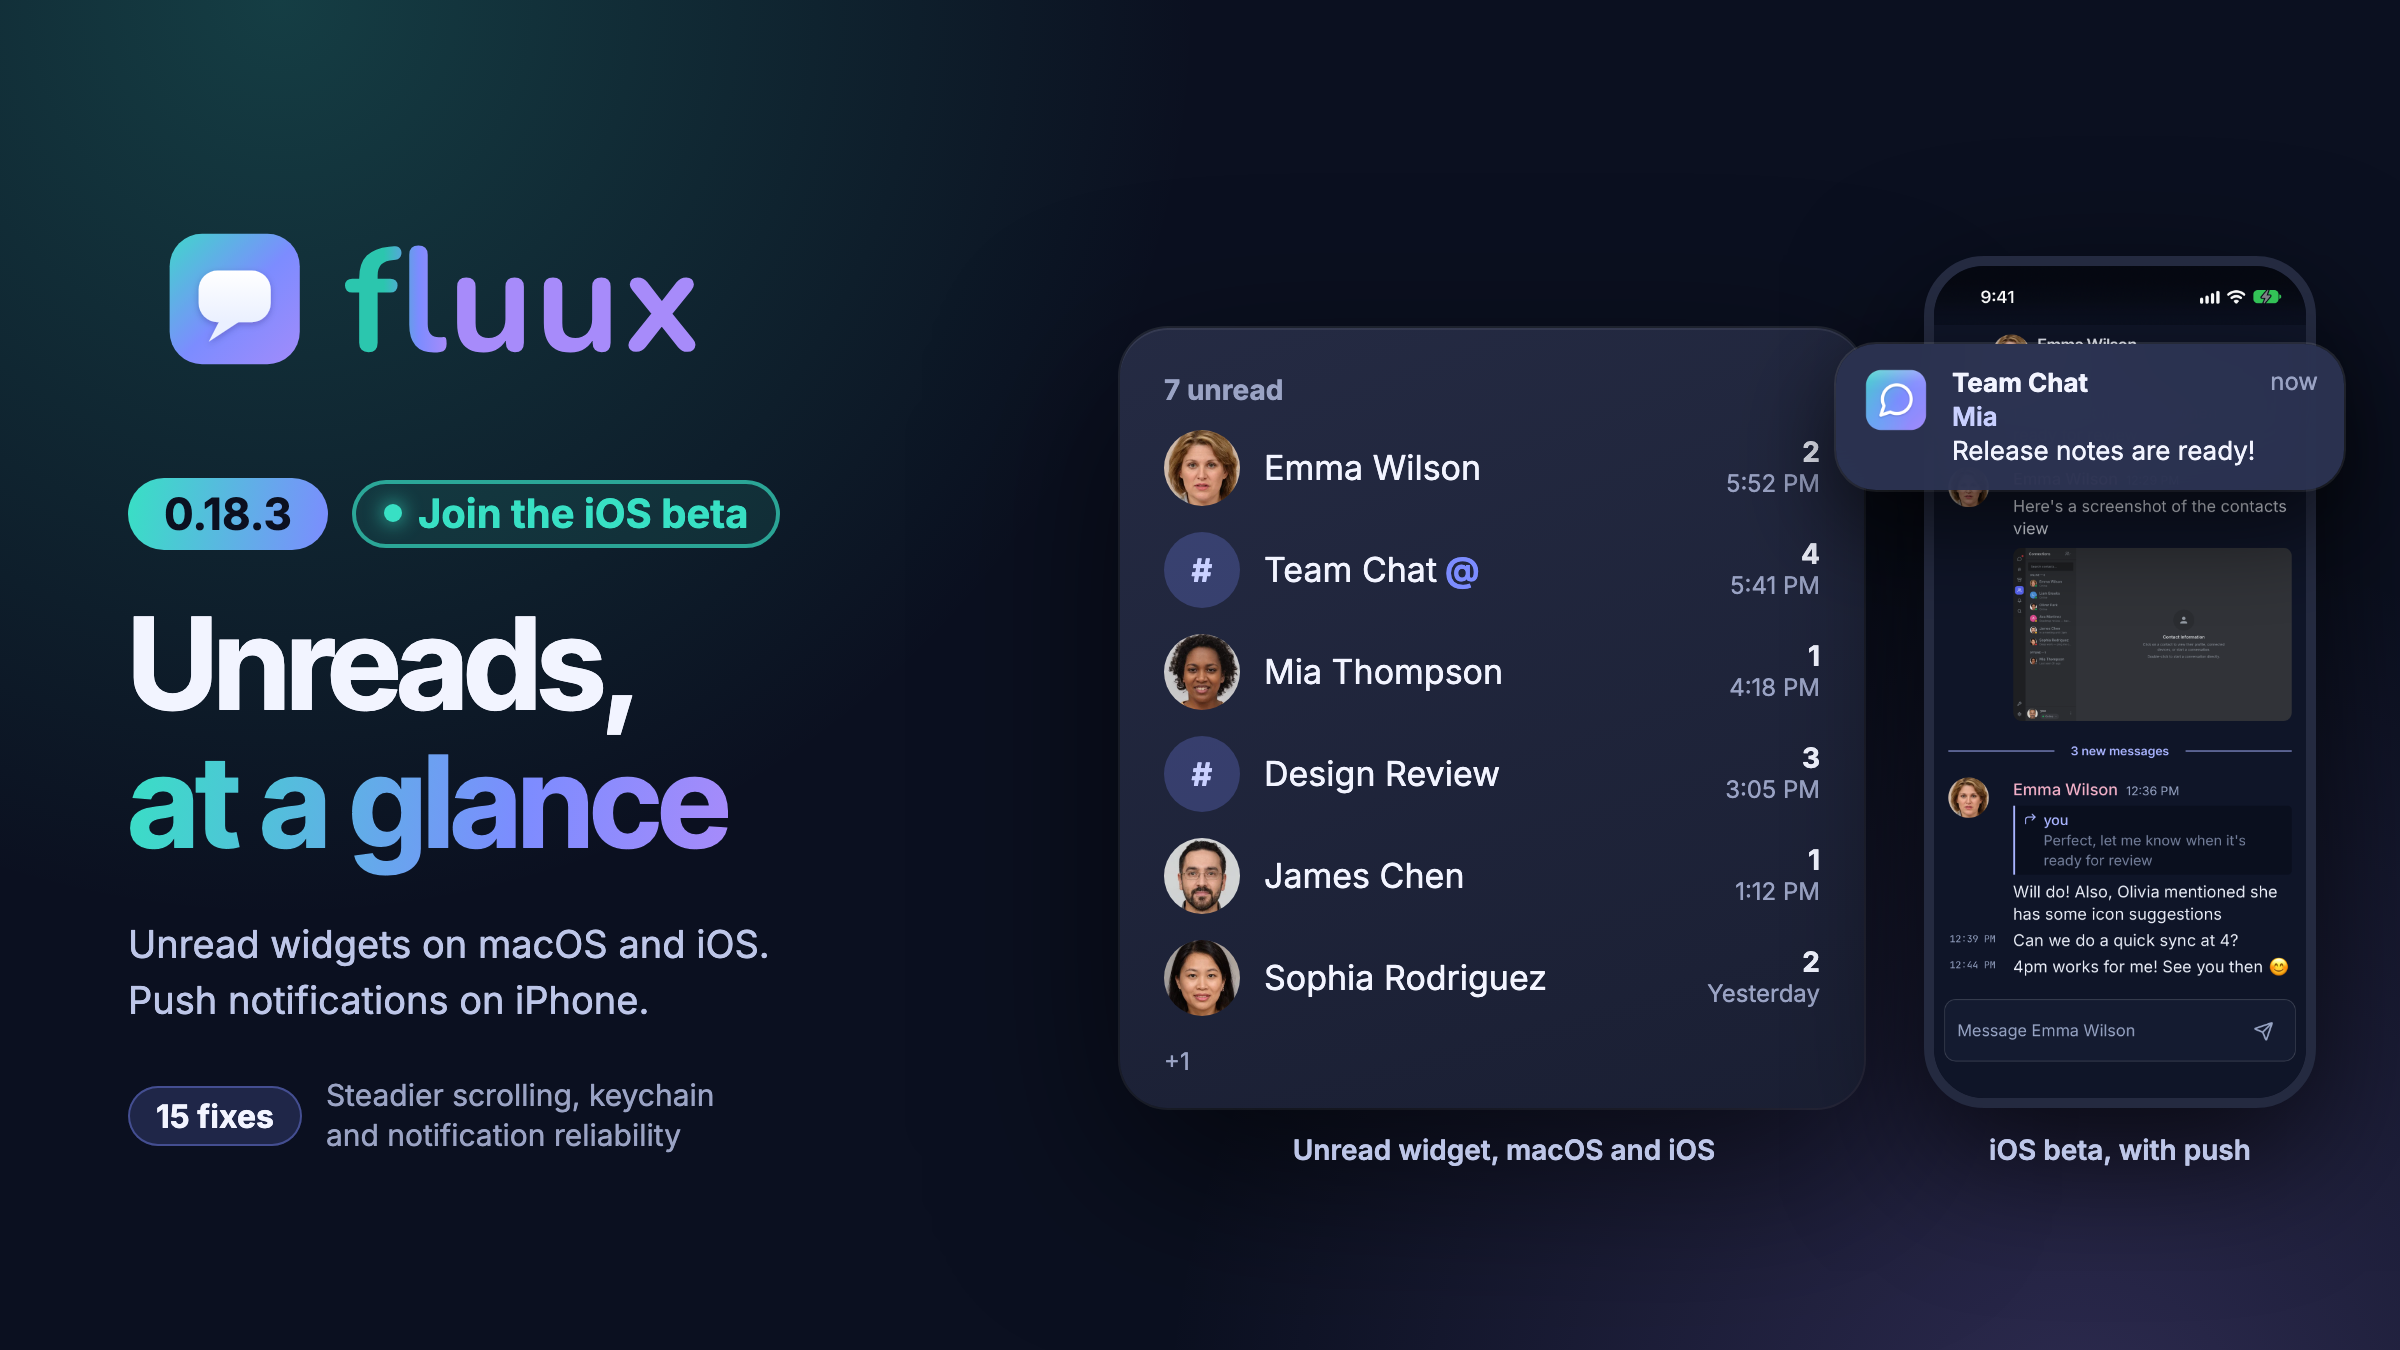
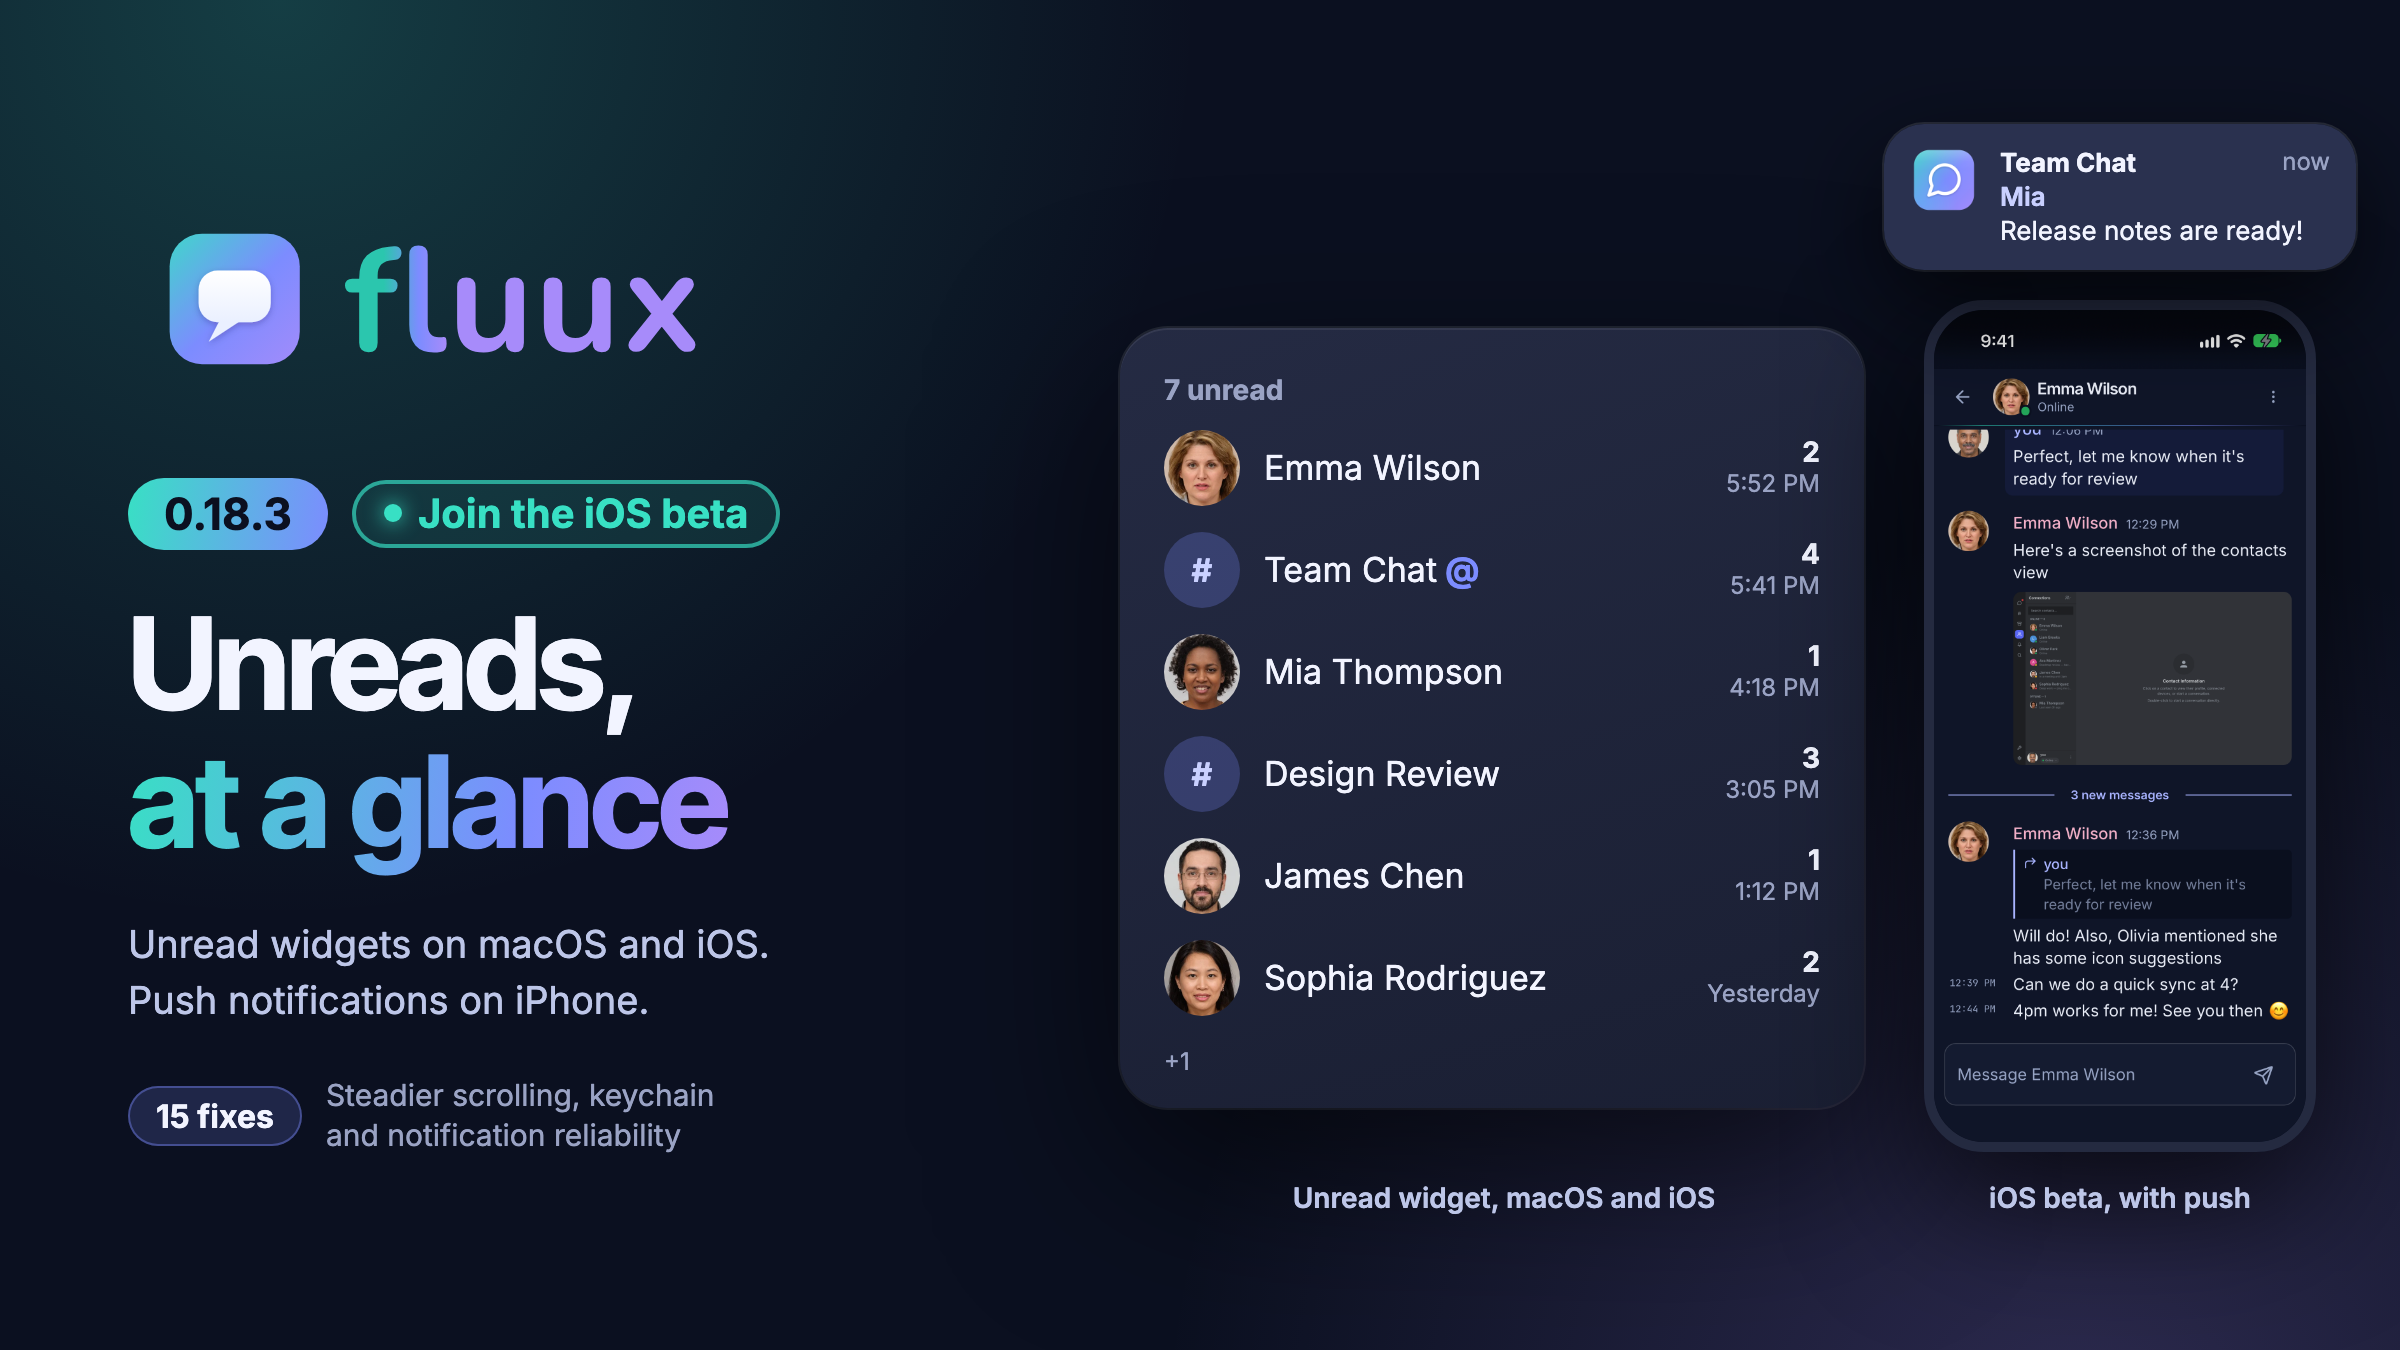
chore(media): keep the 0.18.3 hero notification off the iOS screenshot

Changed region(s): [[0.75, 0.0933, 1.0, 0.8089], [0.5312, 0.84, 0.7188, 0.9022], [0.8125, 0.84, 0.9375, 0.9022]]

diff --git a/scripts/blog-hero/blog-hero-0.18.3.html b/scripts/blog-hero/blog-hero-0.18.3.html
@@ -49,12 +49,12 @@
   .time { font-size: 12px; color: #9aa3c4; }
   .more { position: absolute; left: 22px; bottom: 16px; font-size: 12px; color: #9aa3c4; }
 
-  .phone { position: absolute; left: 962px; top: 128px; width: 196px; height: 426px;
+  .phone { position: absolute; left: 962px; top: 150px; width: 196px; height: 426px;
     border-radius: 30px; overflow: hidden; border: 5px solid #242a40;
     box-shadow: 0 24px 70px #000b; background: #0b1020; }
   .phone img { display: block; width: 100%; height: 100%; object-fit: cover; object-position: top; }
   /* iOS banner: app icon, conversation title, sender above the message (0.18.3 room layout). */
-  .push { position: absolute; left: 918px; top: 172px; width: 254px; padding: 11px 13px;
+  .push { position: absolute; left: 942px; top: 62px; width: 236px; padding: 11px 13px;
     display: flex; gap: 11px; border-radius: 20px; z-index: 4;
     background: #2c3352f0; backdrop-filter: blur(18px);
     box-shadow: 0 18px 50px #000a, 0 0 0 1px #ffffff1f; color: #f2f4ff; }
@@ -96,7 +96,7 @@
     </div>
     <div class="more">+1</div>
   </div>
-  <div class="label" style="left: 566px; top: 566px; width: 372px;">Unread widget, macOS and iOS</div>
+  <div class="label" style="left: 566px; top: 590px; width: 372px;">Unread widget, macOS and iOS</div>
 
   <div class="phone"><img src="../../screenshots/release-0.18.0-ios-chat.png" alt="Fluux on iPhone"></div>
   <div class="push" aria-label="iOS push notification">
@@ -107,7 +107,7 @@
       <div>Release notes are ready!</div>
     </div>
   </div>
-  <div class="label" style="left: 962px; top: 566px; width: 196px;">iOS beta, with push</div>
+  <div class="label" style="left: 962px; top: 590px; width: 196px;">iOS beta, with push</div>
 </main>
 </body>
 </html>
